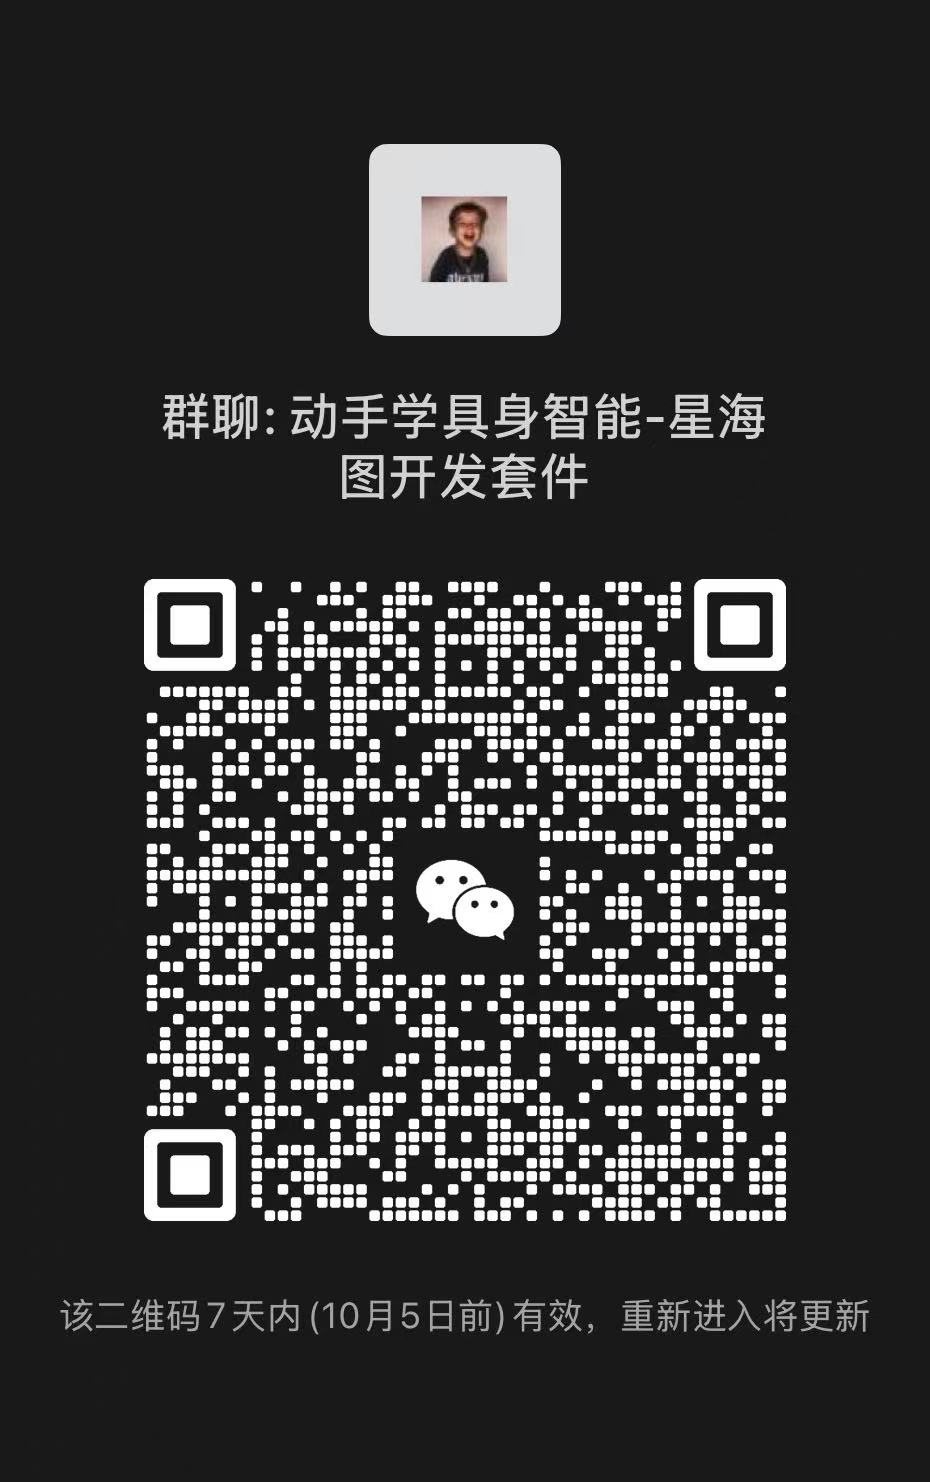
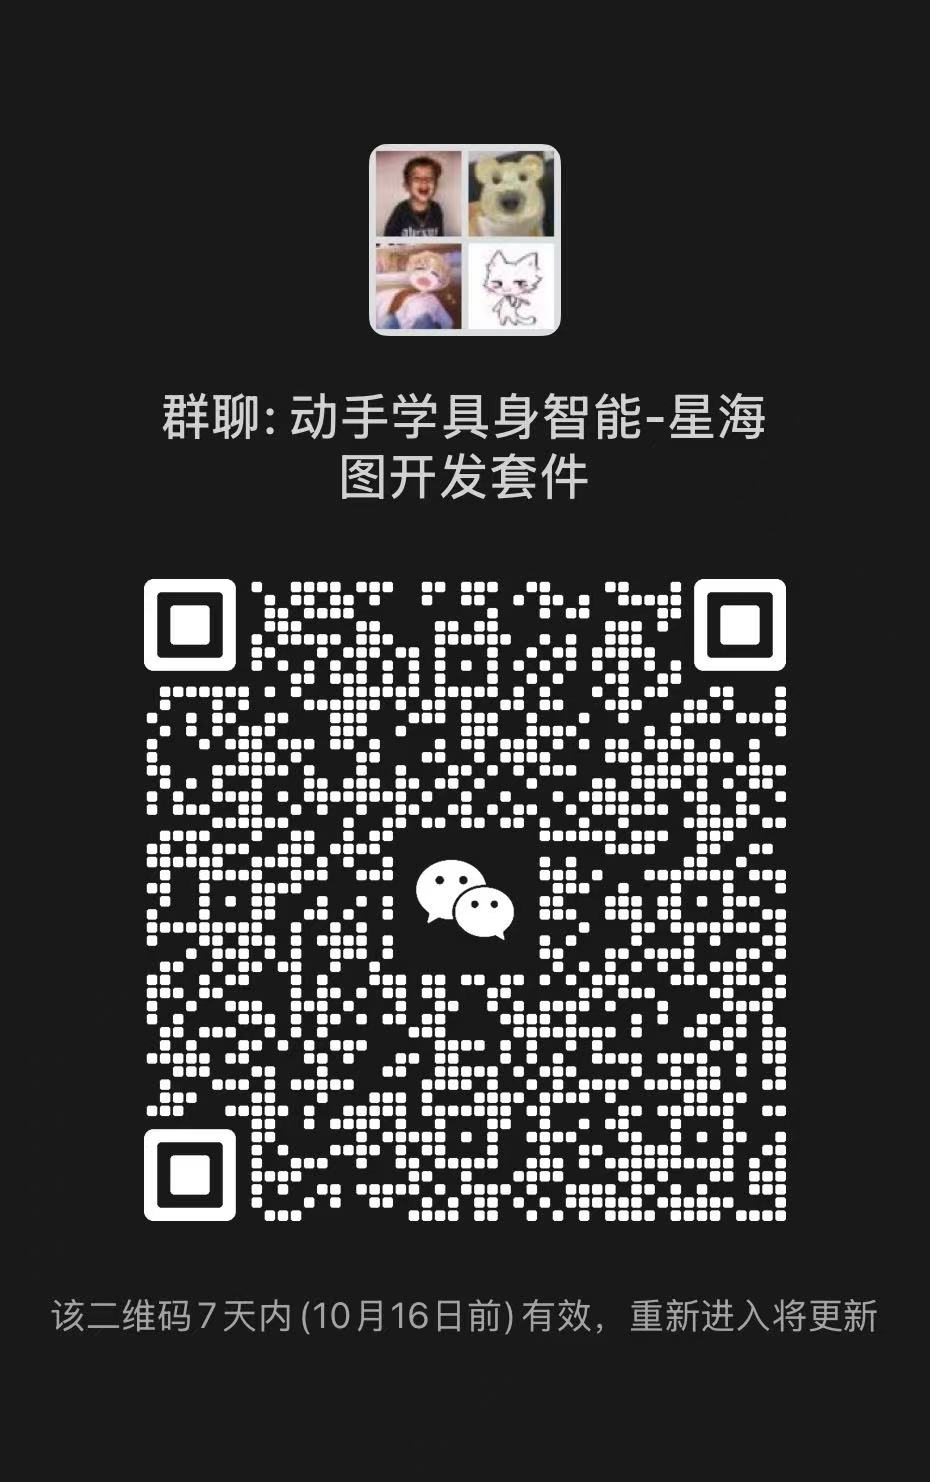
update assets

diff --git a/readme.md b/readme.md
@@ -2,14 +2,31 @@
 
 详细操作指南请参考[文档](https://open-galaxea.github.io/Doc/),进行安装使用
 
-学会应该能够自己跑出以下其中之一的任务及其结果。
-<video src="https://raw.githubusercontent.com/Open-Galaxea/open-galaxea/main/assets/sim_R1ProBottlePick.mp4" 
-       controls 
-       width="600"
-       muted
-       autoplay
-       loop>
-</video>
+学会应该能够自己跑出以下任务及其结果。
+<div style="display: flex; justify-content: center; gap: 20px;">
+  <div style="text-align: center;">
+    <video src="https://raw.githubusercontent.com/Open-Galaxea/open-galaxea/main/assets/dp_R1ProBlocksStackEasy.mp4" 
+           controls 
+           width="400"
+           muted
+           autoplay
+           loop>
+    </video>
+    <p>💡 GalaxeaDP文档中的结果视频</p>
+  </div>
+
+  <div style="text-align: center;">
+    <video src="https://raw.githubusercontent.com/Open-Galaxea/open-galaxea/main/assets/sim_R1ProBottlePick.mp4" 
+           controls 
+           width="400"
+           muted
+           autoplay
+           loop>
+    </video>
+    <p>🧠 GalaxeaManipSim文档中的结果视频</p>
+  </div>
+</div>
+
 
 
 ## 快速上手
@@ -24,5 +41,5 @@
 
 欢迎进群讨论
 
-<img src="assets/wechat.jpg" alt="wechat" width="300"/>
+<img src="https://raw.githubusercontent.com/Open-Galaxea/open-galaxea/main/assets/wechat.jpg" alt="wechat" width="300"/>
 
